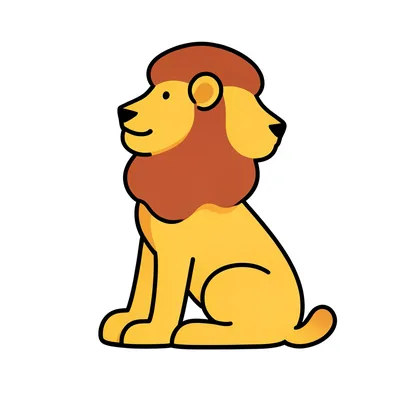
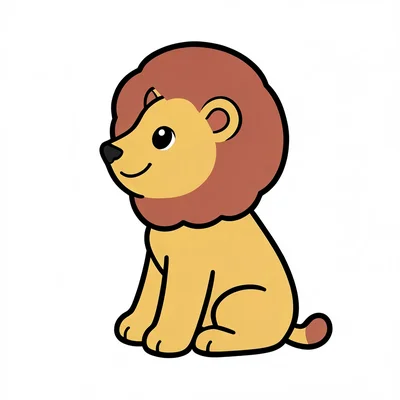
fix(desafio): improve día 2 and día 3 games
Día 2 "La lista del mercado": lowered difficulty by spreading the
6/9/15-item ramp across 4 levels instead of 3 (6/9/12/15), and gave
more study time as the list grows instead of less — level 3 previously
had LESS study time than level 2 despite having more to memorize.

Día 3 "Un animal por letra":
- Regenerated the león and chancho illustrations with Flux — the
  originals had a double-head rendering glitch and a missing face,
  respectively.
- Added syllable-based clues: ~50% of level 2/3 trials now show a
  syllable (e.g. "CHAN" for chancho) instead of a bare letter, adding
  genuine phonological-recall difficulty at the harder levels.

diff --git a/src/pages/desafio/games/AnimalPorLetra.tsx b/src/pages/desafio/games/AnimalPorLetra.tsx
@@ -30,6 +30,10 @@ interface Animal {
   id: string
   label: string
   letter: string
+  /** First syllable, shown instead of the bare letter for some L2/L3 trials
+   * (see Level.allowsSyllable) — only defined where it's phonetically clean
+   * (no collision with another animal's opening sound in the same pool). */
+  syllable?: string
 }
 
 const L1_ANIMALS: Animal[] = [
@@ -45,22 +49,22 @@ const L1_ANIMALS: Animal[] = [
   { id: 'tortuga', label: 'tortuga', letter: 'T' },
 ]
 const L2_ANIMALS: Animal[] = [
-  { id: 'vaca', label: 'vaca', letter: 'V' },
-  { id: 'cangrejo', label: 'cangrejo', letter: 'C' },
-  { id: 'jirafa', label: 'jirafa', letter: 'J' },
-  { id: 'leon', label: 'león', letter: 'L' },
-  { id: 'nutria', label: 'nutria', letter: 'N' },
-  { id: 'flamenco', label: 'flamenco', letter: 'F' },
-  { id: 'serpiente', label: 'serpiente', letter: 'S' },
-  { id: 'zorro', label: 'zorro', letter: 'Z' },
+  { id: 'vaca', label: 'vaca', letter: 'V', syllable: 'VA' },
+  { id: 'cangrejo', label: 'cangrejo', letter: 'C', syllable: 'CAN' },
+  { id: 'jirafa', label: 'jirafa', letter: 'J', syllable: 'JI' },
+  { id: 'leon', label: 'león', letter: 'L', syllable: 'LE' },
+  { id: 'nutria', label: 'nutria', letter: 'N', syllable: 'NU' },
+  { id: 'flamenco', label: 'flamenco', letter: 'F', syllable: 'FLA' },
+  { id: 'serpiente', label: 'serpiente', letter: 'S', syllable: 'SER' },
+  { id: 'zorro', label: 'zorro', letter: 'Z', syllable: 'ZO' },
 ]
 const L3_ANIMALS: Animal[] = [
-  { id: 'chancho', label: 'chancho', letter: 'CH' },
-  { id: 'llama', label: 'llama', letter: 'LL' },
-  { id: 'hipopotamo', label: 'hipopótamo', letter: 'H' },
-  { id: 'cebra', label: 'cebra', letter: 'C' },
-  { id: 'yacare', label: 'yacaré', letter: 'Y' },
-  { id: 'nandu', label: 'ñandú', letter: 'Ñ' },
+  { id: 'chancho', label: 'chancho', letter: 'CH', syllable: 'CHAN' },
+  { id: 'llama', label: 'llama', letter: 'LL', syllable: 'LLA' },
+  { id: 'hipopotamo', label: 'hipopótamo', letter: 'H', syllable: 'HI' },
+  { id: 'cebra', label: 'cebra', letter: 'C', syllable: 'CE' },
+  { id: 'yacare', label: 'yacaré', letter: 'Y', syllable: 'YA' },
+  { id: 'nandu', label: 'ñandú', letter: 'Ñ', syllable: 'ÑAN' },
 ]
 
 const IMAGES = import.meta.glob('../../../assets/desafio/games/animal-por-letra/*.webp', {
@@ -90,17 +94,24 @@ interface Level {
   name: string
   animals: Animal[]
   decoyPool: Animal[]
+  // L1 stays pure single-letter (warm-up); L2/L3 mix in syllable trials for
+  // animals that have one, so the harder levels occasionally ask for actual
+  // phonological recall instead of a bare-letter visual match.
+  allowsSyllable: boolean
 }
 
 const LEVELS: Level[] = [
-  { n: 1, name: 'Nivel 1', animals: L1_ANIMALS, decoyPool: L1_ANIMALS },
-  { n: 2, name: 'Nivel 2', animals: L2_ANIMALS, decoyPool: [...L1_ANIMALS, ...L2_ANIMALS] },
-  { n: 3, name: 'Nivel 3', animals: L3_ANIMALS, decoyPool: [...L1_ANIMALS, ...L2_ANIMALS, ...L3_ANIMALS] },
+  { n: 1, name: 'Nivel 1', animals: L1_ANIMALS, decoyPool: L1_ANIMALS, allowsSyllable: false },
+  { n: 2, name: 'Nivel 2', animals: L2_ANIMALS, decoyPool: [...L1_ANIMALS, ...L2_ANIMALS], allowsSyllable: true },
+  { n: 3, name: 'Nivel 3', animals: L3_ANIMALS, decoyPool: [...L1_ANIMALS, ...L2_ANIMALS, ...L3_ANIMALS], allowsSyllable: true },
 ]
 
 interface Trial {
   target: Animal
   options: Animal[]
+  /** Precomputed once per trial (never at render time) so the clue shown
+   * stays stable across re-renders of the same trial. */
+  clue: string
 }
 // Real same-sound Spanish confusions (b/v, seseo c/s/z, yeísmo ll/y) — forced
 // into the decoy set when relevant so the tricky pairs actually collide,
@@ -120,9 +131,14 @@ function buildRound(level: Level): Trial[] {
     const rest = pool.filter((a) => !forced.includes(a))
     const decoyCount = level.n === 3 ? 5 : 3
     const decoys = [...forced, ...pick(rest, Math.max(0, decoyCount - forced.length))].slice(0, decoyCount)
+    // ~50% of L2/L3 trials show the syllable instead of the bare letter, only
+    // when this animal actually has one defined — decided once here, not at
+    // render time, so it can't flip on a re-render of the same trial.
+    const useSyllable = level.allowsSyllable && !!target.syllable && Math.random() < 0.5
     return {
       target,
       options: shuffle([target, ...decoys]),
+      clue: useSyllable ? target.syllable! : target.letter,
     }
   })
 }
@@ -237,10 +253,10 @@ export function AnimalPorLetra({ day: _day, onComplete }: GameProps) {
 
       {!done && current && (
         <>
-          {/* Target letter */}
+          {/* Target letter or syllable */}
           <div className="mt-6 text-center">
-            <span className="inline-flex h-20 w-20 items-center justify-center rounded-2xl border-2 border-slate-200 bg-white text-4xl font-black text-slate-800">
-              {current.target.letter}
+            <span className="inline-flex h-20 min-w-[5rem] items-center justify-center rounded-2xl border-2 border-slate-200 bg-white px-3 text-3xl font-black text-slate-800">
+              {current.clue}
             </span>
           </div>
 

diff --git a/src/pages/desafio/games/ListaDelMercado.tsx b/src/pages/desafio/games/ListaDelMercado.tsx
@@ -105,8 +105,12 @@ function buildL2(): Round {
   return { studied, distractors }
 }
 
-function buildL3(): Round {
-  const studied = pick(MERCADO_ITEMS, 15)
+// Shared by L3/L4: same-category "lure" distractors (e.g. studied "leche" ->
+// decoy "yogur", both lácteos) — the hardest distractor type, since a lure
+// can't be rejected just by noticing it's off-domain. Only the studied COUNT
+// differs between the two levels; the lure logic itself is identical.
+function buildWithLures(count: number): Round {
+  const studied = pick(MERCADO_ITEMS, count)
   const studiedIds = new Set(studied.map((o) => o.id))
   const usedLureIds = new Set<string>()
   const distractors: MercadoItem[] = []
@@ -127,6 +131,8 @@ function buildL3(): Round {
   }
   return { studied, distractors }
 }
+const buildL3 = () => buildWithLures(12)
+const buildL4 = () => buildWithLures(15)
 
 interface Level {
   n: number
@@ -136,10 +142,15 @@ interface Level {
   build: () => Round
 }
 
+// 4 levels instead of 3: the old L2->L3 jump (9->15 studied items, LESS study
+// time than L2 despite more to memorize) was too steep. Spreading it into two
+// smaller steps (9->12->15) and giving MORE study time as the list grows
+// (never less) makes the ramp gentler without dropping the eventual ceiling.
 const LEVELS: Level[] = [
   { n: 1, name: 'Nivel 1', studySeconds: 20, minEarlySeconds: 8, build: buildL1 },
-  { n: 2, name: 'Nivel 2', studySeconds: 25, minEarlySeconds: 8, build: buildL2 },
-  { n: 3, name: 'Nivel 3', studySeconds: 18, minEarlySeconds: 8, build: buildL3 },
+  { n: 2, name: 'Nivel 2', studySeconds: 24, minEarlySeconds: 8, build: buildL2 },
+  { n: 3, name: 'Nivel 3', studySeconds: 28, minEarlySeconds: 10, build: buildL3 },
+  { n: 4, name: 'Nivel 4', studySeconds: 32, minEarlySeconds: 10, build: buildL4 },
 ]
 
 const PRAISE_GOOD = ['¡Excelente memoria!', '¡Muy bien!', '¡Así se hace!', '¡Qué buena atención!']